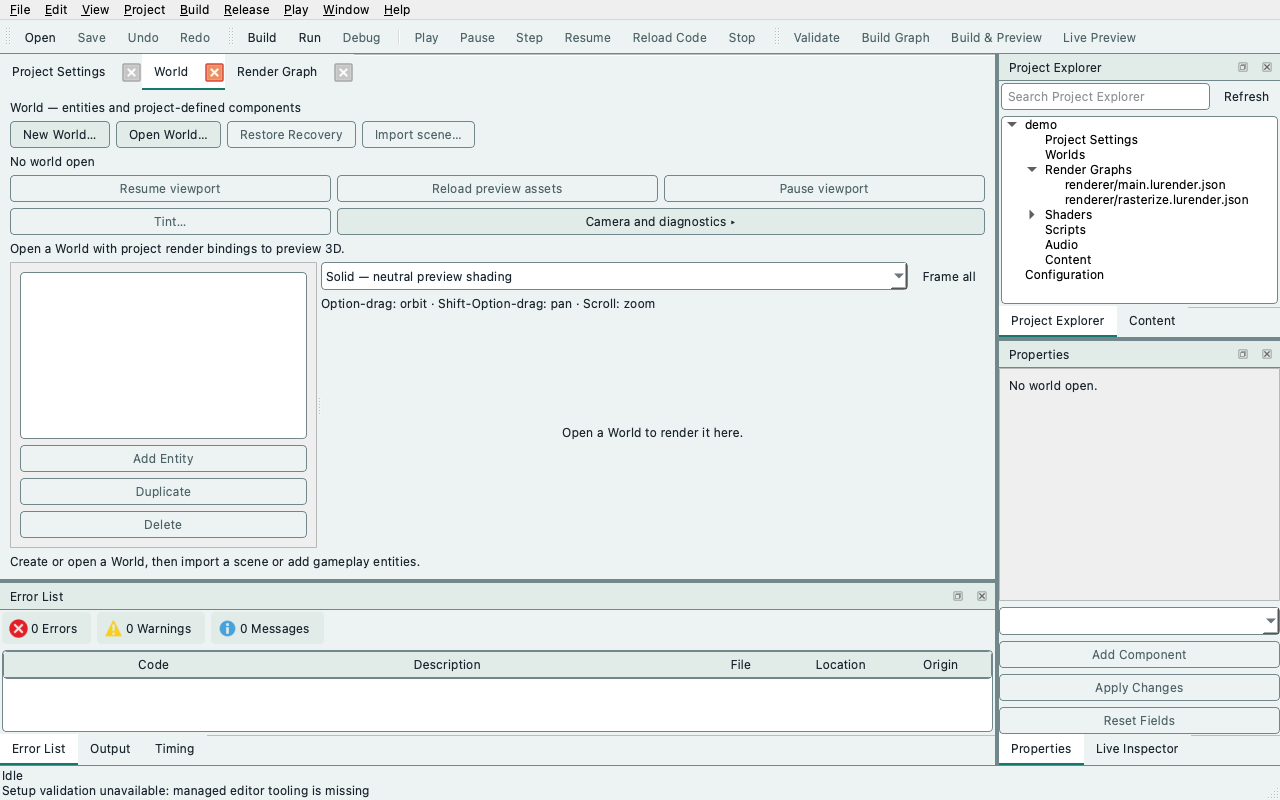
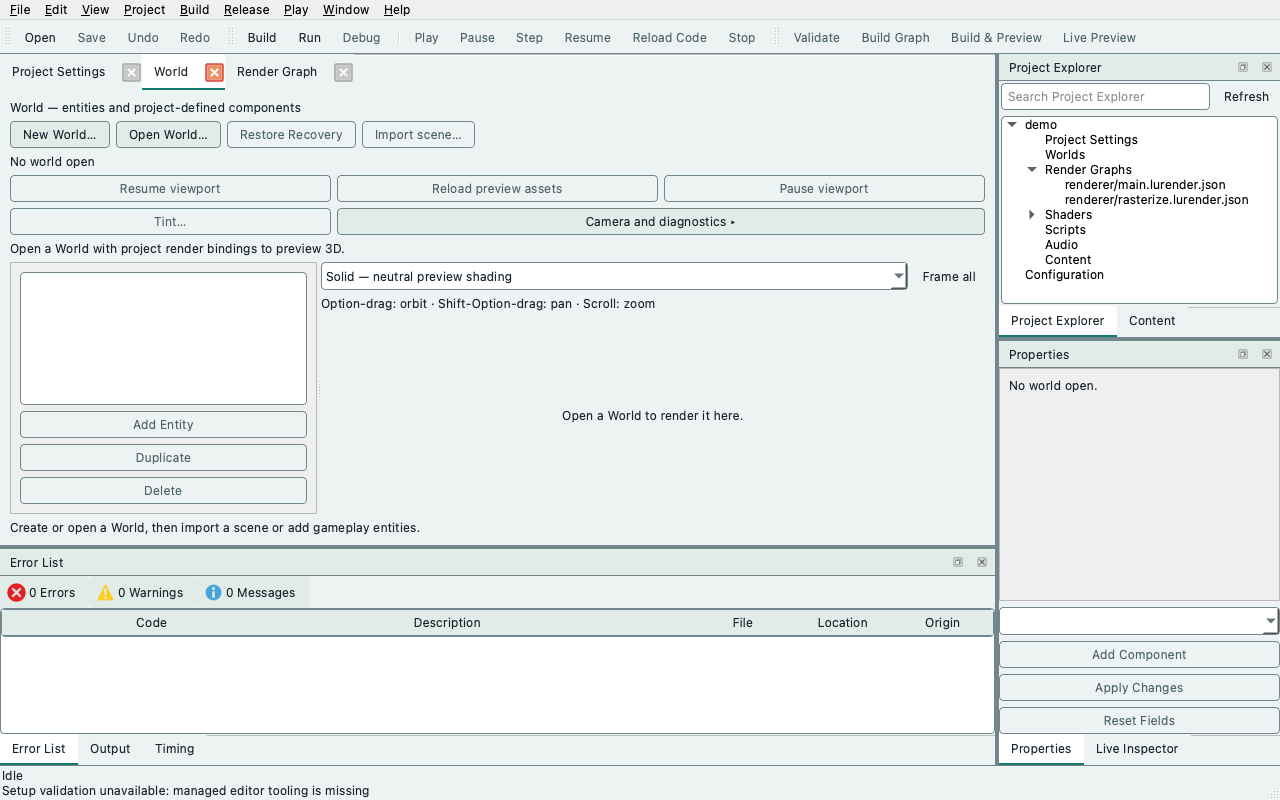
Editor: size the bottom tool windows for readable Error List rows
The Linux CI runner measured the Error List dock below the shell test's
fixed 150-pixel threshold at 1280x800. Measuring the table instead showed
fewer than two visible rows on macOS. Give the bottom group 27% of the
window height, compact the Error List filter row, and assert at least two
visible diagnostic rows instead of a dock pixel height that depends on the
platform's tab bar. Refresh the documentation captures.

Changed region(s): [[0.0, 0.5, 0.7812, 0.875], [0.4375, 0.5, 0.5625, 0.5625]]

diff --git a/apps/editor/tests/editor_shell_tests.cpp b/apps/editor/tests/editor_shell_tests.cpp
@@ -20,6 +20,7 @@
 #include <QDockWidget>
 #include <QFile>
 #include <QFileInfo>
+#include <QHeaderView>
 #include <QJsonArray>
 #include <QJsonDocument>
 #include <QJsonObject>
@@ -31,6 +32,7 @@
 #include <QPlainTextEdit>
 #include <QPushButton>
 #include <QSize>
+#include <QTableWidget>
 #include <QTemporaryDir>
 #include <QTest>
 #include <QTextBlock>
@@ -56,6 +58,8 @@ QStringList GetToolWindows()
     };
 }
 constexpr QLatin1StringView PACKAGE_GRAPH{"renderer/main.lurender.json"};
+// Diagnostic rows the default Error List shows without scrolling.
+constexpr int32 MIN_VISIBLE_DIAGNOSTIC_ROWS = 2;
 
 QByteArray ReadBytes(const QString& path)
 {
@@ -262,7 +266,12 @@ TEST_CASE("Shell puts documents in the centre and tool windows around them", "[e
         CHECK(well.width() * 100 >= window.width() * 65);
         CHECK(well.height() * 100 >= window.height() * 55);
         CHECK(Dock(window, QStringLiteral("projectExplorerDock"))->width() >= 260);
-        CHECK(Dock(window, QStringLiteral("errorListDock"))->height() >= 150);
+        // The bottom tool windows keep room for several diagnostic rows. Measured on the
+        // table, since the dock's own tab bar height differs between platform styles.
+        QTableWidget* diagnostics = window.findChild<QTableWidget*>(QStringLiteral("errorListTable"));
+        REQUIRE(diagnostics != nullptr);
+        CHECK(diagnostics->viewport()->height() >=
+              MIN_VISIBLE_DIAGNOSTIC_ROWS * diagnostics->verticalHeader()->defaultSectionSize());
         CheckToolbarsUnclipped(window);
         REQUIRE(well.OpenDocument(world) == true);
         Settle();

diff --git a/apps/editor/src/main_window_layout.cpp b/apps/editor/src/main_window_layout.cpp
@@ -71,9 +71,10 @@ constexpr foundation::int32 MIN_WINDOW_HEIGHT_PIXELS = 760;
 constexpr foundation::int32 SIDE_DOCK_PERCENT = 22;
 constexpr foundation::int32 MIN_SIDE_DOCK_PIXELS = 260;
 constexpr foundation::int32 MAX_SIDE_DOCK_PIXELS = 420;
-constexpr foundation::int32 BOTTOM_DOCK_PERCENT = 22;
-constexpr foundation::int32 MIN_BOTTOM_DOCK_PIXELS = 150;
-constexpr foundation::int32 MAX_BOTTOM_DOCK_PIXELS = 260;
+// The bottom group needs a tab bar, the Error List filters and header, and a few rows.
+constexpr foundation::int32 BOTTOM_DOCK_PERCENT = 27;
+constexpr foundation::int32 MIN_BOTTOM_DOCK_PIXELS = 160;
+constexpr foundation::int32 MAX_BOTTOM_DOCK_PIXELS = 300;
 // Project Explorer's share of the right column; Properties gets the rest.
 constexpr foundation::int32 EXPLORER_SHARE_PERCENT = 40;
 constexpr foundation::int32 PROPERTIES_HINT_MARGIN_PIXELS = 8;

diff --git a/apps/editor/src/error_list.cpp b/apps/editor/src/error_list.cpp
@@ -206,8 +206,12 @@ ErrorList::ErrorList(QWidget* parentOrNull)
 {
     setObjectName(QStringLiteral("errorList"));
     QVBoxLayout* layout = new QVBoxLayout(this);
-    layout->setContentsMargins(2, 2, 2, 2);
+    layout->setContentsMargins(0, 0, 0, 0);
+    layout->setSpacing(0);
+    // Compact filter row, so the table keeps several rows in a short bottom dock.
     QHBoxLayout* filters = new QHBoxLayout;
+    filters->setContentsMargins(0, 0, 0, 0);
+    filters->setSpacing(0);
     const QStyle* style = QApplication::style();
     mErrors->setObjectName(QStringLiteral("errorListErrors"));
     mErrors->setIcon(style->standardIcon(QStyle::SP_MessageBoxCritical));

diff --git a/docs/development/editor-workspace.md b/docs/development/editor-workspace.md
@@ -353,7 +353,8 @@ The layout follows Visual Studio, built on Qt Widgets' own docking:
   with a check mark to show or hide it.
 - **Window → Reset Window Layout** restores the default documents-first
   arrangement, all tool windows and toolbars, sized for the current window
-  (tool windows take roughly a fifth of the width and height). It never changes
+  (the right column takes about a fifth of the width and the bottom group about
+  a quarter of the height, enough for several Error List rows). It never changes
   drafts, saved files or a Play session.
 - **Save, Undo and Redo follow the active document tab.** Focus in a tool
   window does not change the active document: editing a World entity in
